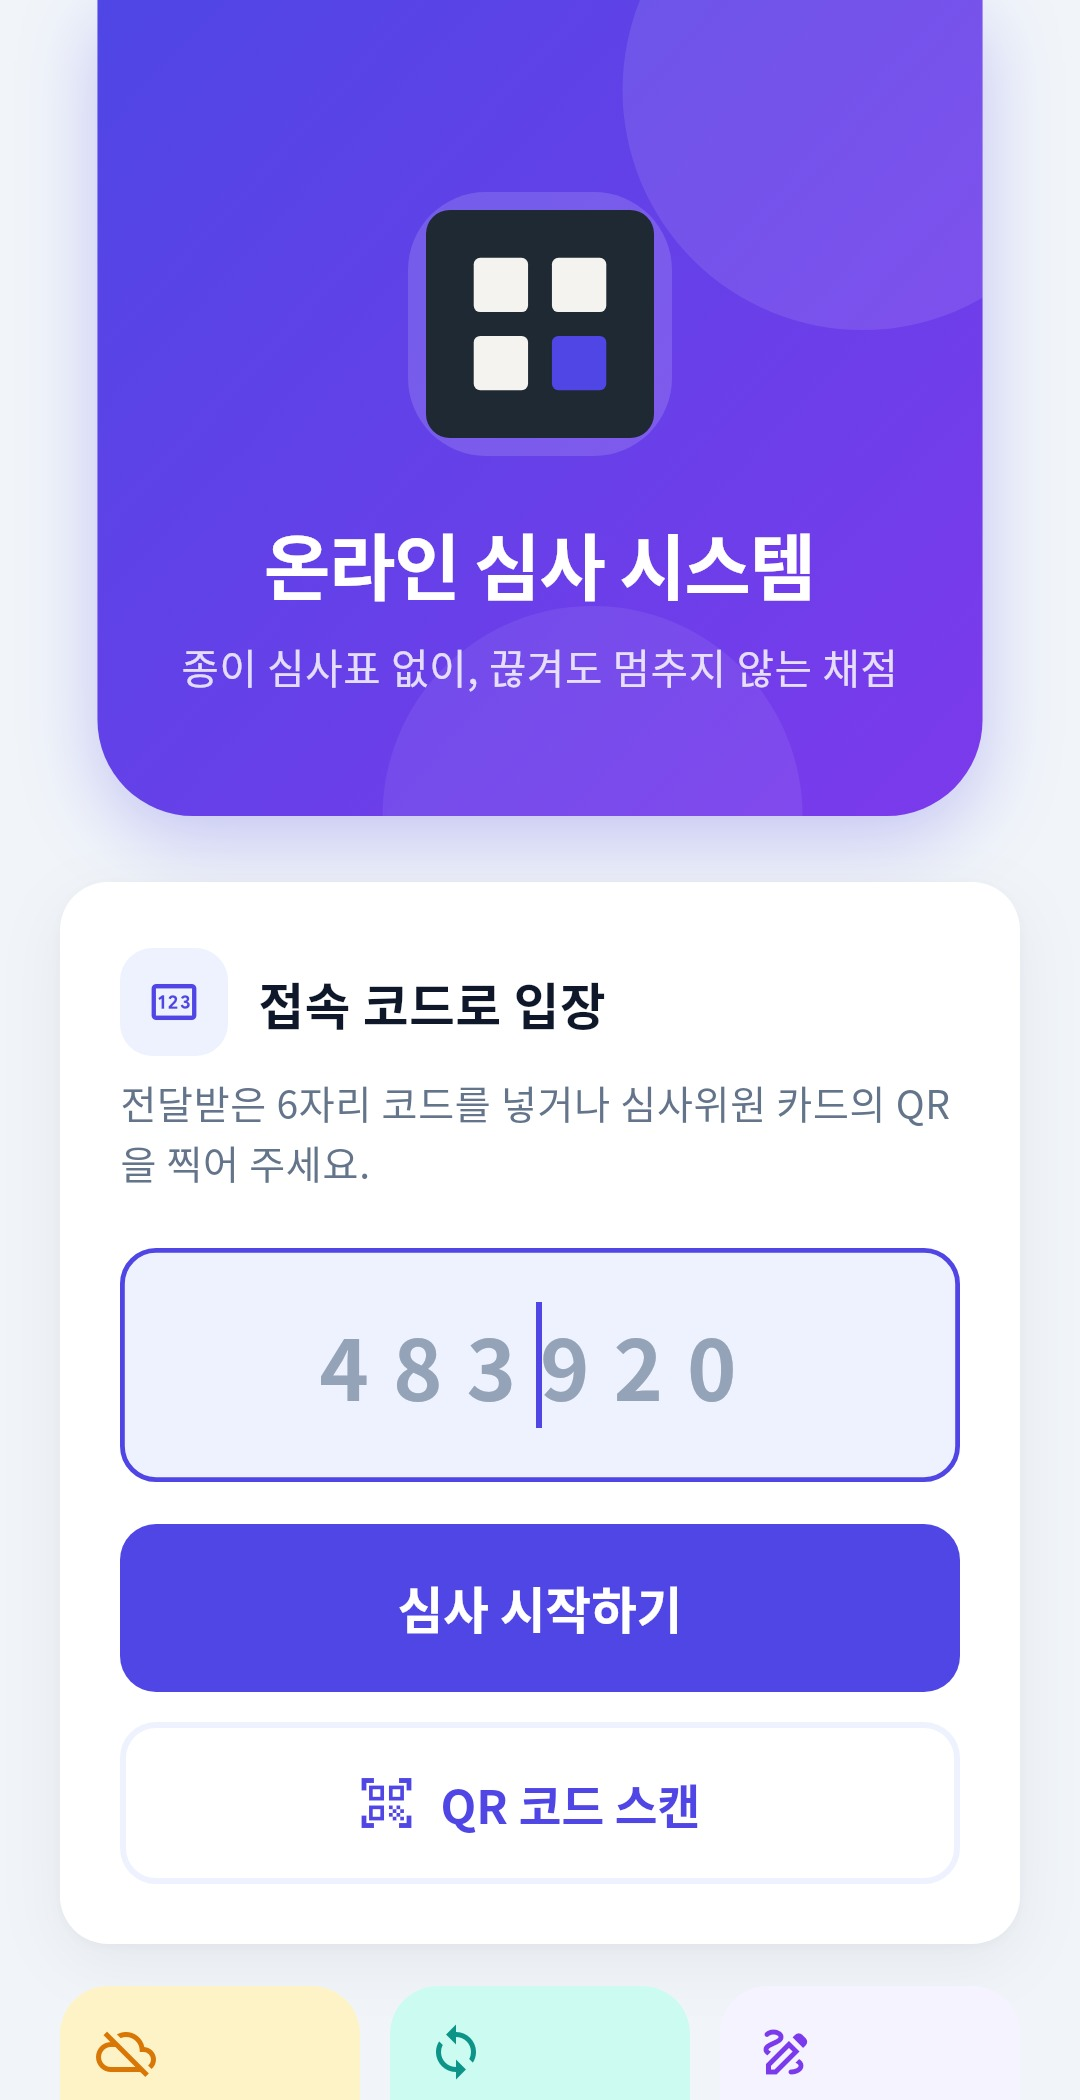
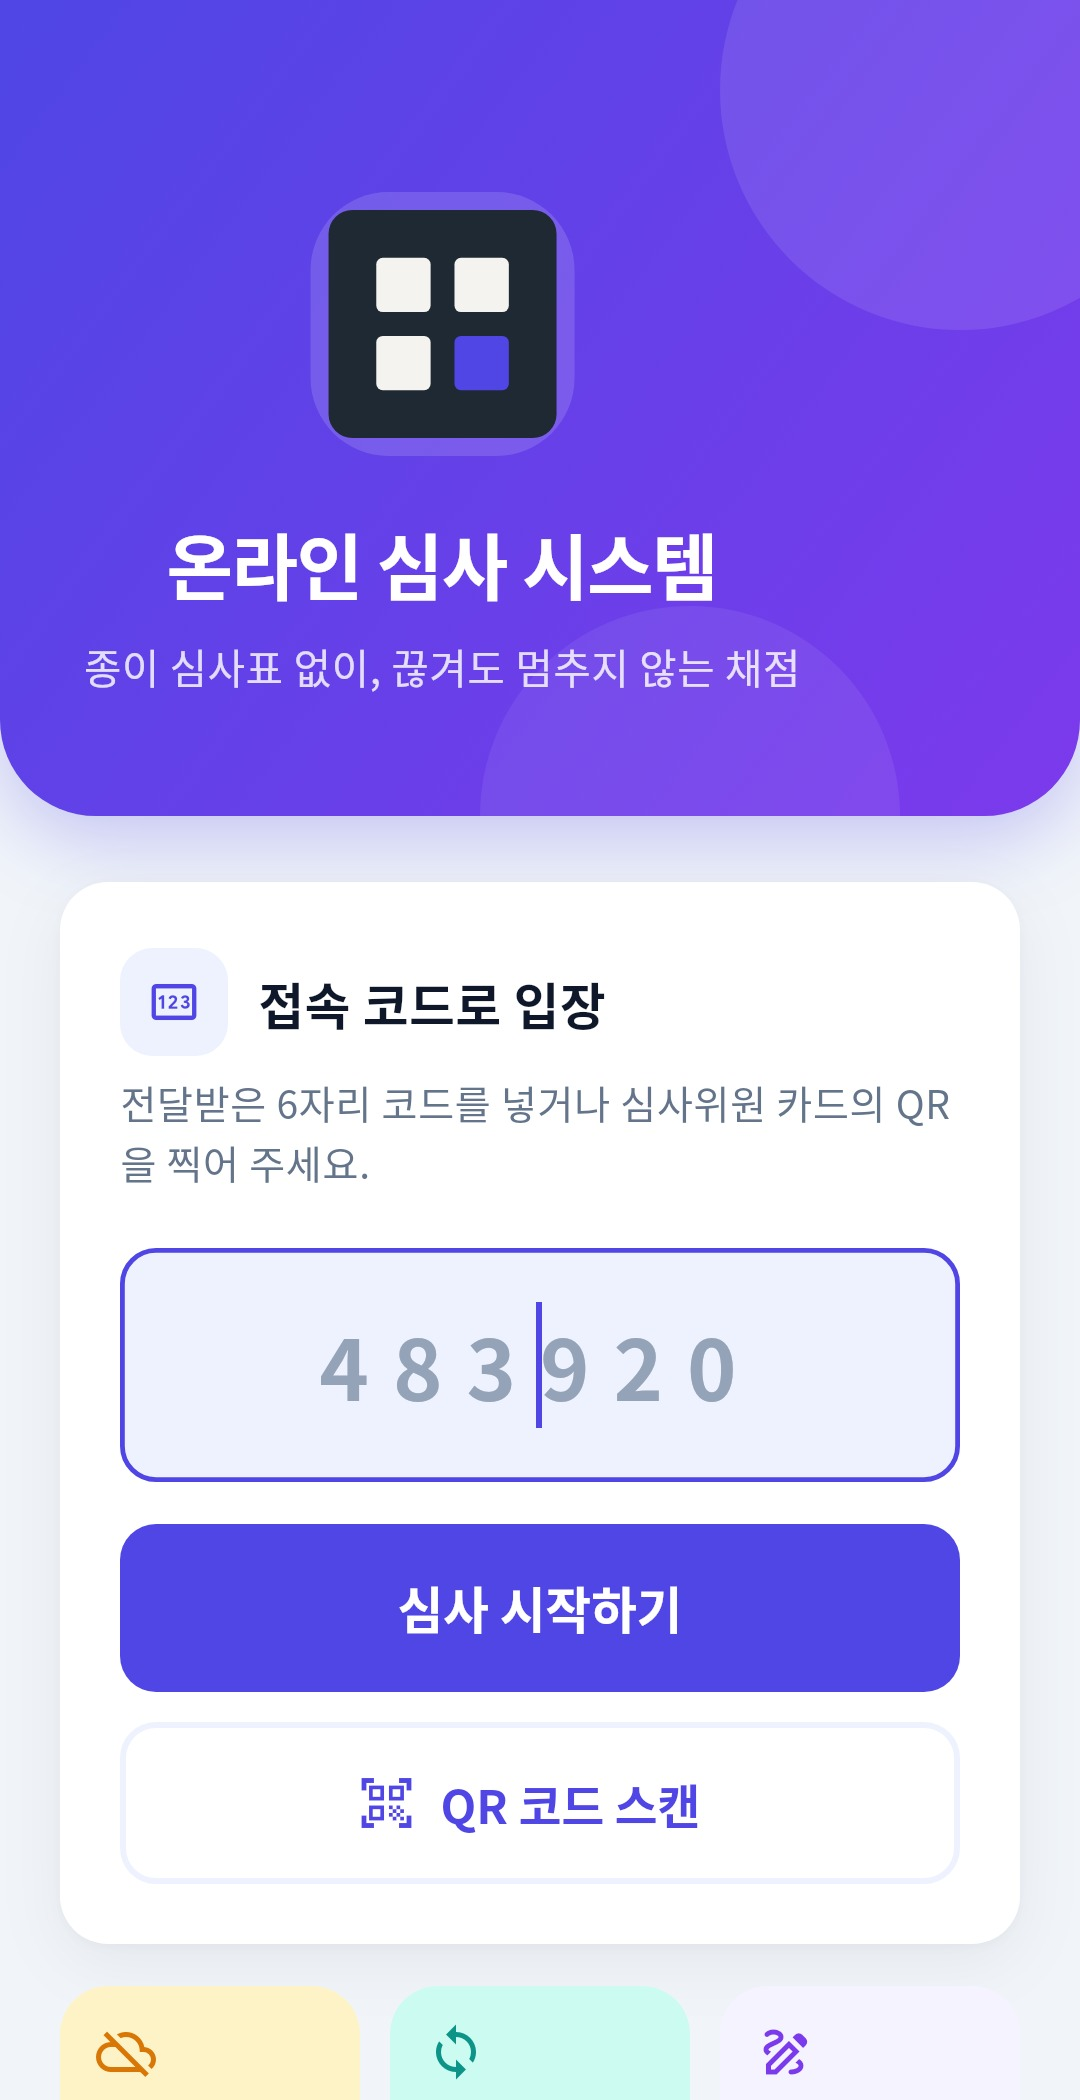
fix: 입장 머리 판 전체 폭, 행사명을 띄어쓰기에서만 줄바꿈(keepWords), 스크린샷 갱신

Changed region(s): [[0.0, 0.0, 0.825, 0.4024], [0.8556, 0.0, 1.0, 0.4024], [0.275, 0.0929, 0.6417, 0.2167]]

diff --git a/lib/core/design.dart b/lib/core/design.dart
@@ -1355,3 +1355,11 @@ String formatSyncedAt(DateTime? at, {DateTime? now}) {
 
   return '$hour:$minute 전송됨';
 }
+
+/// 한국어 제목이 **띄어쓰기에서만** 줄바꿈되게 한다.
+///
+/// Flutter 는 한글을 글자 단위로 끊어 "경진/대회" 처럼 단어 중간에서 줄이 바뀐다.
+/// 단어 안 글자 사이에 단어 결합 문자(U+2060)를 넣어 막는다. 한 단어가 한 줄보다 길면
+/// 그 단어만 글자 단위로 끊긴다(말줄임 처리는 그대로 동작한다).
+String keepWords(String text) =>
+    text.split(' ').map((word) => word.characters.join('\u2060')).join(' ');

diff --git a/lib/admin/admin_home_screen.dart b/lib/admin/admin_home_screen.dart
@@ -173,11 +173,11 @@ class _AdminHeader extends StatelessWidget {
                 crossAxisAlignment: CrossAxisAlignment.start,
                 children: [
                   Text(
-                    event.name,
+                    keepWords(event.name),
                     maxLines: 2,
                     overflow: TextOverflow.ellipsis,
                     style: const TextStyle(
-                      fontSize: 20,
+                      fontSize: 18,
                       height: 1.3,
                       fontWeight: FontWeight.w800,
                       color: Colors.white,

diff --git a/lib/judge/entry_screen.dart b/lib/judge/entry_screen.dart
@@ -76,6 +76,8 @@ class _EntryScreenState extends ConsumerState<EntryScreen> {
       child: Scaffold(
         body: SingleChildScrollView(
           child: Column(
+            // 머리 판이 화면 폭을 다 채우도록. 아래 카드는 Center+ConstrainedBox 로 폭을 따로 잡는다.
+            crossAxisAlignment: CrossAxisAlignment.stretch,
             children: [
               // 머리 판은 상태바 뒤까지 칠한다. 그래서 SafeArea 대신 인셋만큼 안쪽 여백을 준다.
               HeroPanel(

diff --git a/lib/judge/candidates_screen.dart b/lib/judge/candidates_screen.dart
@@ -310,7 +310,7 @@ class _Header extends StatelessWidget {
                     crossAxisAlignment: CrossAxisAlignment.start,
                     children: [
                       Text(
-                        payload.event.name,
+                        keepWords(payload.event.name),
                         maxLines: 2,
                         overflow: TextOverflow.ellipsis,
                         style: const TextStyle(

diff --git a/lib/admin/admin_events_screen.dart b/lib/admin/admin_events_screen.dart
@@ -268,7 +268,7 @@ class _EventTile extends StatelessWidget {
                   crossAxisAlignment: CrossAxisAlignment.start,
                   children: [
                     Text(
-                      event.name,
+                      keepWords(event.name),
                       maxLines: 2,
                       overflow: TextOverflow.ellipsis,
                       style: const TextStyle(
